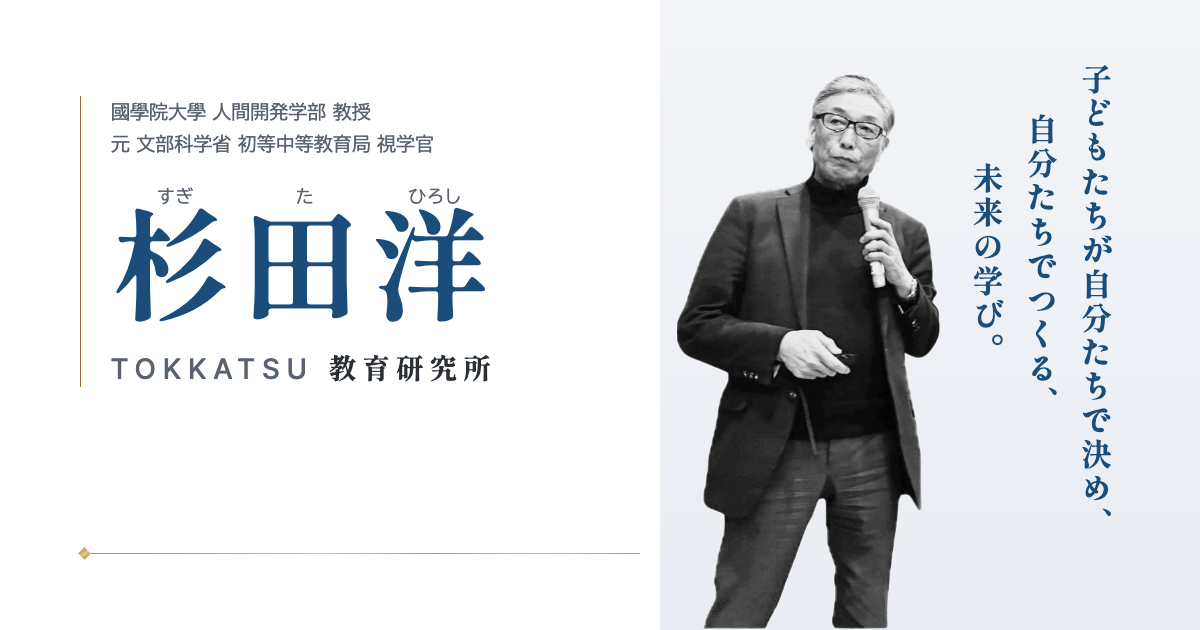
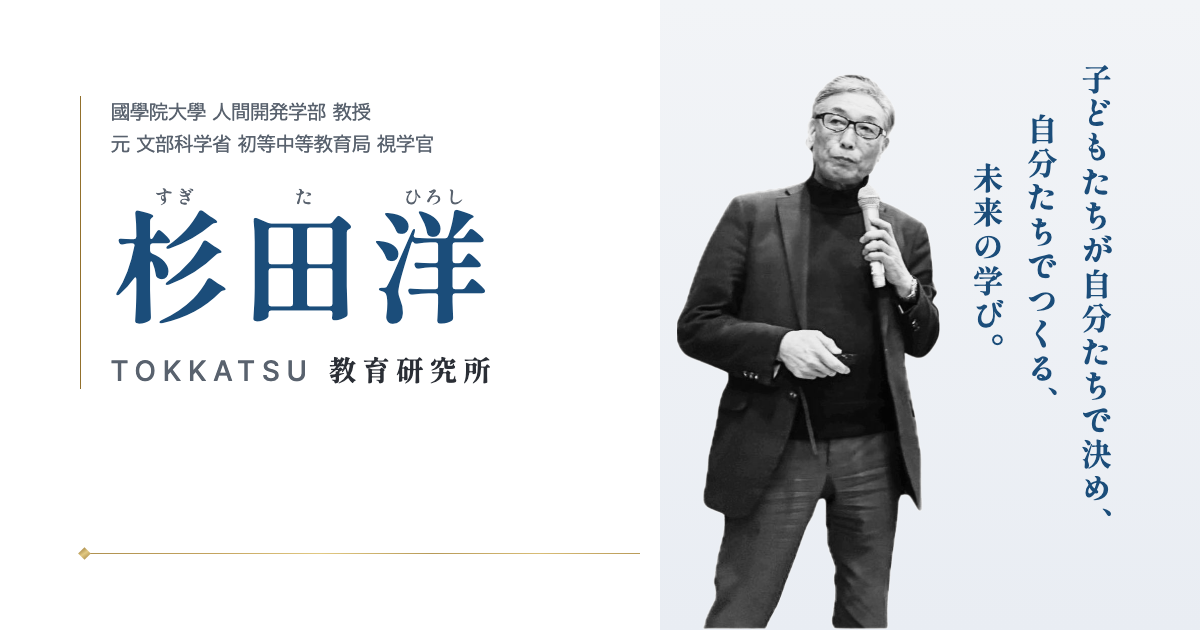
ふりがなを名前と同じ明朝に（OGP の画像も）

diff --git a/activities.html b/activities.html
@@ -21,8 +21,8 @@
 <link rel="preconnect" href="https://fonts.googleapis.com">
 <link rel="preconnect" href="https://fonts.gstatic.com" crossorigin>
 <link href="https://fonts.googleapis.com/css2?family=BIZ+UDPGothic:wght@400;700&family=Inter+Tight:wght@300;500;700&family=Shippori+Mincho+B1:wght@500;600;800&display=swap" rel="stylesheet">
-<link rel="stylesheet" href="assets/css/style.css?v=202610251801">
-<link rel="stylesheet" href="assets/css/pages.css?v=202610251801">
+<link rel="stylesheet" href="assets/css/style.css?v=202610251804">
+<link rel="stylesheet" href="assets/css/pages.css?v=202610251804">
 <script>if(!matchMedia("(prefers-reduced-motion: reduce)").matches&&"IntersectionObserver" in window)document.documentElement.classList.add("js")</script>
 </head>
 <body>
@@ -141,9 +141,9 @@
 </footer>
 
 <a class="tab" href="request.html">講演・研修のご依頼</a>
-<script src="assets/js/motion.js?v=202610251801"></script>
-<script src="assets/js/data.js?v=202610251801"></script>
-<script src="assets/js/activities.js?v=202610251801"></script>
-<script src="assets/js/render.js?v=202610251801"></script>
+<script src="assets/js/motion.js?v=202610251804"></script>
+<script src="assets/js/data.js?v=202610251804"></script>
+<script src="assets/js/activities.js?v=202610251804"></script>
+<script src="assets/js/render.js?v=202610251804"></script>
 </body>
 </html>

diff --git a/index.html b/index.html
@@ -20,8 +20,8 @@
 <link rel="preconnect" href="https://fonts.googleapis.com">
 <link rel="preconnect" href="https://fonts.gstatic.com" crossorigin>
 <link href="https://fonts.googleapis.com/css2?family=BIZ+UDPGothic:wght@400;700&family=Inter+Tight:wght@300;500;700&family=Shippori+Mincho+B1:wght@500;600;800&display=swap" rel="stylesheet">
-<link rel="stylesheet" href="assets/css/style.css?v=202610251801">
-<link rel="stylesheet" href="assets/css/pages.css?v=202610251801">
+<link rel="stylesheet" href="assets/css/style.css?v=202610251804">
+<link rel="stylesheet" href="assets/css/pages.css?v=202610251804">
 <script>if(!matchMedia("(prefers-reduced-motion: reduce)").matches&&"IntersectionObserver" in window)document.documentElement.classList.add("js")</script>
 </head>
 <body>
@@ -186,8 +186,8 @@
 </footer>
 
 <a class="tab" href="request.html">講演・研修のご依頼</a>
-<script src="assets/js/motion.js?v=202610251801"></script>
-<script src="assets/js/data.js?v=202610251801"></script>
-<script src="assets/js/render.js?v=202610251801"></script>
+<script src="assets/js/motion.js?v=202610251804"></script>
+<script src="assets/js/data.js?v=202610251804"></script>
+<script src="assets/js/render.js?v=202610251804"></script>
 </body>
 </html>

diff --git a/en/index.html b/en/index.html
@@ -22,9 +22,9 @@
 <link rel="preconnect" href="https://fonts.googleapis.com">
 <link rel="preconnect" href="https://fonts.gstatic.com" crossorigin>
 <link href="https://fonts.googleapis.com/css2?family=BIZ+UDPGothic:wght@400;700&family=Inter+Tight:wght@300;500;700&family=Shippori+Mincho+B1:wght@500;600;800&display=swap" rel="stylesheet">
-<link rel="stylesheet" href="../assets/css/style.css?v=202610251801">
-<link rel="stylesheet" href="../assets/css/pages.css?v=202610251801">
-<link rel="stylesheet" href="../assets/css/en.css?v=202610251801">
+<link rel="stylesheet" href="../assets/css/style.css?v=202610251804">
+<link rel="stylesheet" href="../assets/css/pages.css?v=202610251804">
+<link rel="stylesheet" href="../assets/css/en.css?v=202610251804">
 <script>if(!matchMedia("(prefers-reduced-motion: reduce)").matches&&"IntersectionObserver" in window)document.documentElement.classList.add("js")</script>
 </head>
 <body class="en-page">
@@ -87,6 +87,6 @@
   </div>
 </footer>
 <a class="tab en-tab" href="#contact">Lecture requests</a>
-<script src="../assets/js/motion.js?v=202610251801"></script>
+<script src="../assets/js/motion.js?v=202610251804"></script>
 </body>
 </html>

diff --git a/en/international.html b/en/international.html
@@ -22,9 +22,9 @@
 <link rel="preconnect" href="https://fonts.googleapis.com">
 <link rel="preconnect" href="https://fonts.gstatic.com" crossorigin>
 <link href="https://fonts.googleapis.com/css2?family=BIZ+UDPGothic:wght@400;700&family=Inter+Tight:wght@300;500;700&family=Shippori+Mincho+B1:wght@500;600;800&display=swap" rel="stylesheet">
-<link rel="stylesheet" href="../assets/css/style.css?v=202610251801">
-<link rel="stylesheet" href="../assets/css/pages.css?v=202610251801">
-<link rel="stylesheet" href="../assets/css/en.css?v=202610251801">
+<link rel="stylesheet" href="../assets/css/style.css?v=202610251804">
+<link rel="stylesheet" href="../assets/css/pages.css?v=202610251804">
+<link rel="stylesheet" href="../assets/css/en.css?v=202610251804">
 <script>if(!matchMedia("(prefers-reduced-motion: reduce)").matches&&"IntersectionObserver" in window)document.documentElement.classList.add("js")</script>
 </head>
 <body class="en-page">
@@ -56,6 +56,6 @@
   </div>
 </footer>
 <a class="tab en-tab" href="#contact">Lecture requests</a>
-<script src="../assets/js/motion.js?v=202610251801"></script>
+<script src="../assets/js/motion.js?v=202610251804"></script>
 </body>
 </html>

diff --git a/en/philosophy.html b/en/philosophy.html
@@ -22,9 +22,9 @@
 <link rel="preconnect" href="https://fonts.googleapis.com">
 <link rel="preconnect" href="https://fonts.gstatic.com" crossorigin>
 <link href="https://fonts.googleapis.com/css2?family=BIZ+UDPGothic:wght@400;700&family=Inter+Tight:wght@300;500;700&family=Shippori+Mincho+B1:wght@500;600;800&display=swap" rel="stylesheet">
-<link rel="stylesheet" href="../assets/css/style.css?v=202610251801">
-<link rel="stylesheet" href="../assets/css/pages.css?v=202610251801">
-<link rel="stylesheet" href="../assets/css/en.css?v=202610251801">
+<link rel="stylesheet" href="../assets/css/style.css?v=202610251804">
+<link rel="stylesheet" href="../assets/css/pages.css?v=202610251804">
+<link rel="stylesheet" href="../assets/css/en.css?v=202610251804">
 <script>if(!matchMedia("(prefers-reduced-motion: reduce)").matches&&"IntersectionObserver" in window)document.documentElement.classList.add("js")</script>
 </head>
 <body class="en-page">
@@ -64,6 +64,6 @@
   </div>
 </footer>
 <a class="tab en-tab" href="#contact">Lecture requests</a>
-<script src="../assets/js/motion.js?v=202610251801"></script>
+<script src="../assets/js/motion.js?v=202610251804"></script>
 </body>
 </html>

diff --git a/en/profile.html b/en/profile.html
@@ -22,9 +22,9 @@
 <link rel="preconnect" href="https://fonts.googleapis.com">
 <link rel="preconnect" href="https://fonts.gstatic.com" crossorigin>
 <link href="https://fonts.googleapis.com/css2?family=BIZ+UDPGothic:wght@400;700&family=Inter+Tight:wght@300;500;700&family=Shippori+Mincho+B1:wght@500;600;800&display=swap" rel="stylesheet">
-<link rel="stylesheet" href="../assets/css/style.css?v=202610251801">
-<link rel="stylesheet" href="../assets/css/pages.css?v=202610251801">
-<link rel="stylesheet" href="../assets/css/en.css?v=202610251801">
+<link rel="stylesheet" href="../assets/css/style.css?v=202610251804">
+<link rel="stylesheet" href="../assets/css/pages.css?v=202610251804">
+<link rel="stylesheet" href="../assets/css/en.css?v=202610251804">
 <script>if(!matchMedia("(prefers-reduced-motion: reduce)").matches&&"IntersectionObserver" in window)document.documentElement.classList.add("js")</script>
 </head>
 <body class="en-page">
@@ -61,6 +61,6 @@
   </div>
 </footer>
 <a class="tab en-tab" href="#contact">Lecture requests</a>
-<script src="../assets/js/motion.js?v=202610251801"></script>
+<script src="../assets/js/motion.js?v=202610251804"></script>
 </body>
 </html>

diff --git a/about.html b/about.html
@@ -21,8 +21,8 @@
 <link rel="preconnect" href="https://fonts.googleapis.com">
 <link rel="preconnect" href="https://fonts.gstatic.com" crossorigin>
 <link href="https://fonts.googleapis.com/css2?family=BIZ+UDPGothic:wght@400;700&family=Inter+Tight:wght@300;500;700&family=Shippori+Mincho+B1:wght@500;600;800&display=swap" rel="stylesheet">
-<link rel="stylesheet" href="assets/css/style.css?v=202610251801">
-<link rel="stylesheet" href="assets/css/pages.css?v=202610251801">
+<link rel="stylesheet" href="assets/css/style.css?v=202610251804">
+<link rel="stylesheet" href="assets/css/pages.css?v=202610251804">
 <script>if(!matchMedia("(prefers-reduced-motion: reduce)").matches&&"IntersectionObserver" in window)document.documentElement.classList.add("js")</script>
 </head>
 <body>
@@ -105,6 +105,6 @@
 </footer>
 
 <a class="tab" href="request.html">講演・研修のご依頼</a>
-<script src="assets/js/motion.js?v=202610251801"></script>
+<script src="assets/js/motion.js?v=202610251804"></script>
 </body>
 </html>

diff --git a/international.html b/international.html
@@ -21,8 +21,8 @@
 <link rel="preconnect" href="https://fonts.googleapis.com">
 <link rel="preconnect" href="https://fonts.gstatic.com" crossorigin>
 <link href="https://fonts.googleapis.com/css2?family=BIZ+UDPGothic:wght@400;700&family=Inter+Tight:wght@300;500;700&family=Shippori+Mincho+B1:wght@500;600;800&display=swap" rel="stylesheet">
-<link rel="stylesheet" href="assets/css/style.css?v=202610251801">
-<link rel="stylesheet" href="assets/css/pages.css?v=202610251801">
+<link rel="stylesheet" href="assets/css/style.css?v=202610251804">
+<link rel="stylesheet" href="assets/css/pages.css?v=202610251804">
 <script>if(!matchMedia("(prefers-reduced-motion: reduce)").matches&&"IntersectionObserver" in window)document.documentElement.classList.add("js")</script>
 </head>
 <body>
@@ -103,6 +103,6 @@
 </footer>
 
 <a class="tab" href="request.html">講演・研修のご依頼</a>
-<script src="assets/js/motion.js?v=202610251801"></script>
+<script src="assets/js/motion.js?v=202610251804"></script>
 </body>
 </html>

diff --git a/profile.html b/profile.html
@@ -21,8 +21,8 @@
 <link rel="preconnect" href="https://fonts.googleapis.com">
 <link rel="preconnect" href="https://fonts.gstatic.com" crossorigin>
 <link href="https://fonts.googleapis.com/css2?family=BIZ+UDPGothic:wght@400;700&family=Inter+Tight:wght@300;500;700&family=Shippori+Mincho+B1:wght@500;600;800&display=swap" rel="stylesheet">
-<link rel="stylesheet" href="assets/css/style.css?v=202610251801">
-<link rel="stylesheet" href="assets/css/pages.css?v=202610251801">
+<link rel="stylesheet" href="assets/css/style.css?v=202610251804">
+<link rel="stylesheet" href="assets/css/pages.css?v=202610251804">
 <script>if(!matchMedia("(prefers-reduced-motion: reduce)").matches&&"IntersectionObserver" in window)document.documentElement.classList.add("js")</script>
 </head>
 <body>
@@ -123,6 +123,6 @@
 </footer>
 
 <a class="tab" href="request.html">講演・研修のご依頼</a>
-<script src="assets/js/motion.js?v=202610251801"></script>
+<script src="assets/js/motion.js?v=202610251804"></script>
 </body>
 </html>

diff --git a/books.html b/books.html
@@ -21,8 +21,8 @@
 <link rel="preconnect" href="https://fonts.googleapis.com">
 <link rel="preconnect" href="https://fonts.gstatic.com" crossorigin>
 <link href="https://fonts.googleapis.com/css2?family=BIZ+UDPGothic:wght@400;700&family=Inter+Tight:wght@300;500;700&family=Shippori+Mincho+B1:wght@500;600;800&display=swap" rel="stylesheet">
-<link rel="stylesheet" href="assets/css/style.css?v=202610251801">
-<link rel="stylesheet" href="assets/css/pages.css?v=202610251801">
+<link rel="stylesheet" href="assets/css/style.css?v=202610251804">
+<link rel="stylesheet" href="assets/css/pages.css?v=202610251804">
 <script>if(!matchMedia("(prefers-reduced-motion: reduce)").matches&&"IntersectionObserver" in window)document.documentElement.classList.add("js")</script>
 </head>
 <body>
@@ -91,6 +91,6 @@
 </footer>
 
 <a class="tab" href="request.html">講演・研修のご依頼</a>
-<script src="assets/js/motion.js?v=202610251801"></script>
+<script src="assets/js/motion.js?v=202610251804"></script>
 </body>
 </html>

diff --git a/gallery.html b/gallery.html
@@ -21,8 +21,8 @@
 <link rel="preconnect" href="https://fonts.googleapis.com">
 <link rel="preconnect" href="https://fonts.gstatic.com" crossorigin>
 <link href="https://fonts.googleapis.com/css2?family=BIZ+UDPGothic:wght@400;700&family=Inter+Tight:wght@300;500;700&family=Shippori+Mincho+B1:wght@500;600;800&display=swap" rel="stylesheet">
-<link rel="stylesheet" href="assets/css/style.css?v=202610251801">
-<link rel="stylesheet" href="assets/css/pages.css?v=202610251801">
+<link rel="stylesheet" href="assets/css/style.css?v=202610251804">
+<link rel="stylesheet" href="assets/css/pages.css?v=202610251804">
 <script>if(!matchMedia("(prefers-reduced-motion: reduce)").matches&&"IntersectionObserver" in window)document.documentElement.classList.add("js")</script>
 </head>
 <body>
@@ -64,6 +64,6 @@
 </footer>
 
 <a class="tab" href="request.html">講演・研修のご依頼</a>
-<script src="assets/js/motion.js?v=202610251801"></script>
+<script src="assets/js/motion.js?v=202610251804"></script>
 </body>
 </html>

diff --git a/media.html b/media.html
@@ -21,8 +21,8 @@
 <link rel="preconnect" href="https://fonts.googleapis.com">
 <link rel="preconnect" href="https://fonts.gstatic.com" crossorigin>
 <link href="https://fonts.googleapis.com/css2?family=BIZ+UDPGothic:wght@400;700&family=Inter+Tight:wght@300;500;700&family=Shippori+Mincho+B1:wght@500;600;800&display=swap" rel="stylesheet">
-<link rel="stylesheet" href="assets/css/style.css?v=202610251801">
-<link rel="stylesheet" href="assets/css/pages.css?v=202610251801">
+<link rel="stylesheet" href="assets/css/style.css?v=202610251804">
+<link rel="stylesheet" href="assets/css/pages.css?v=202610251804">
 <script>if(!matchMedia("(prefers-reduced-motion: reduce)").matches&&"IntersectionObserver" in window)document.documentElement.classList.add("js")</script>
 </head>
 <body>
@@ -64,6 +64,6 @@
 </footer>
 
 <a class="tab" href="request.html">講演・研修のご依頼</a>
-<script src="assets/js/motion.js?v=202610251801"></script>
+<script src="assets/js/motion.js?v=202610251804"></script>
 </body>
 </html>
